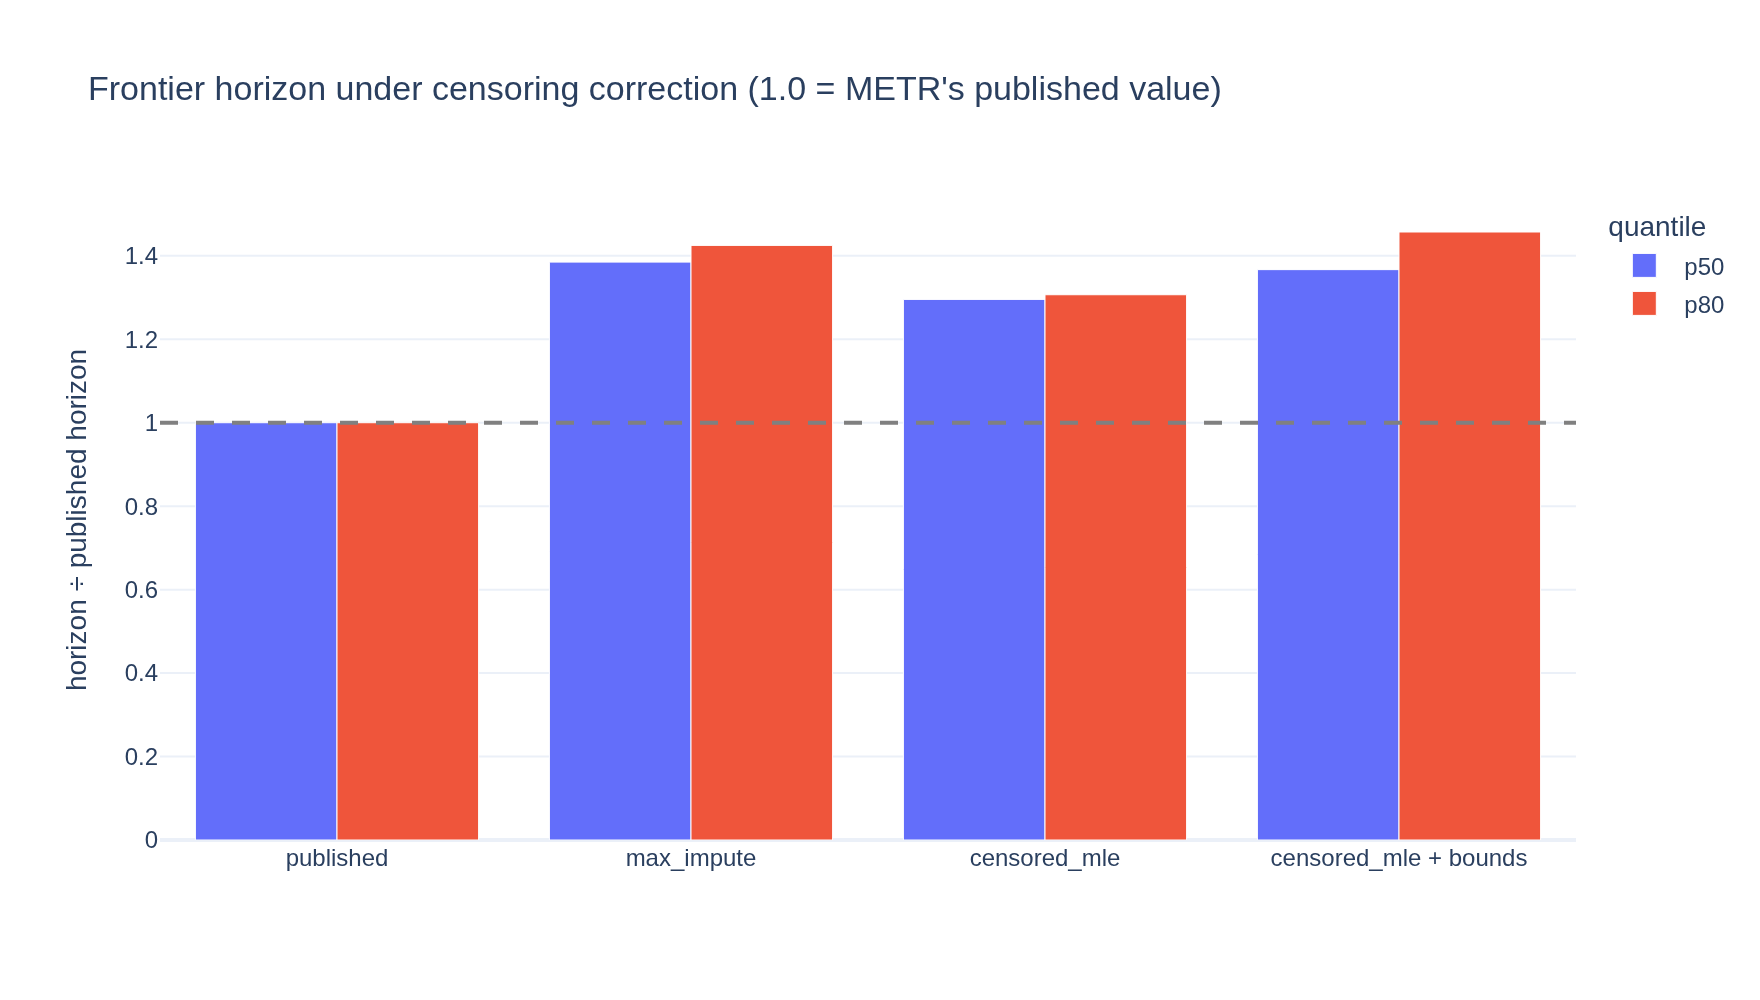
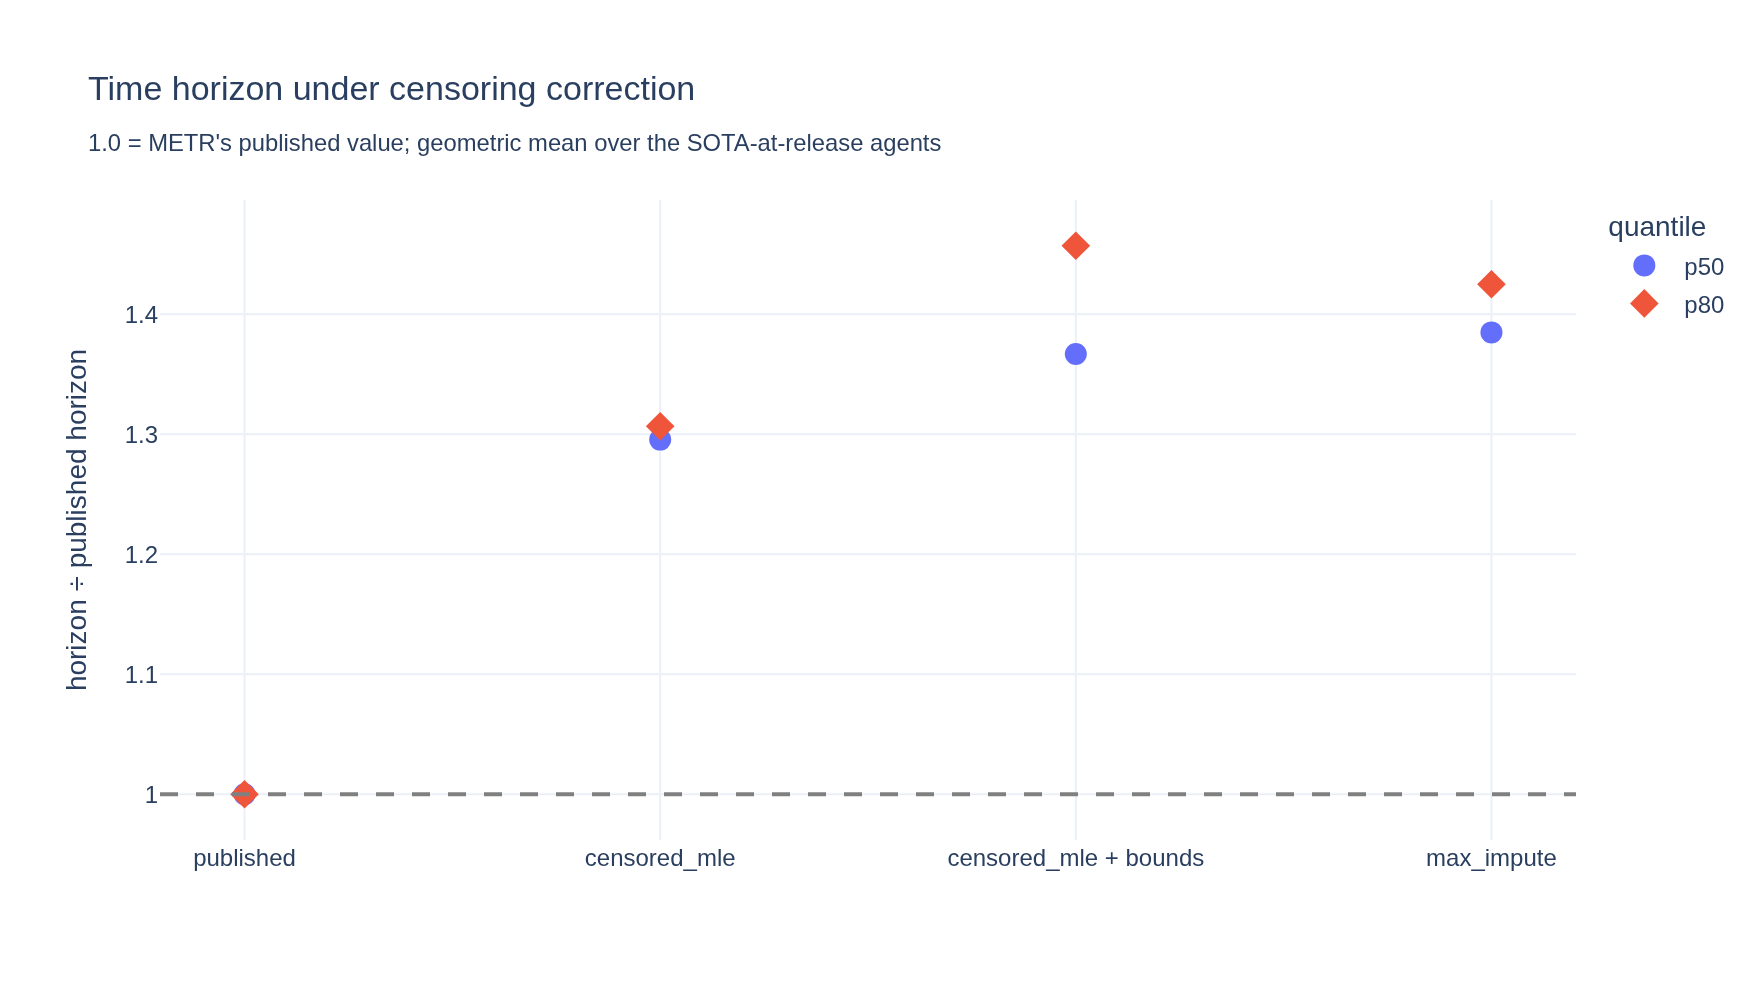
Stage 3 figures to scatter; condense the main-README summary
- The two scenario bar charts become scatter plots, matching Stage 2(c). This
  also makes the doubling-time range legible (190-211 days) instead of being
  squashed against a zero baseline.
- Left success_rate_by_length as bars: its x-axis is genuinely categorical
  length buckets, where bars are the right encoding.
- Main README results summary: split into bullets and stripped most of the
  individual numbers, keeping the direction and magnitude of each finding.
  Per-stage numbers stay in the stage READMEs.

diff --git a/reanalysis/stage-3-survival/analysis.py b/reanalysis/stage-3-survival/analysis.py
@@ -573,24 +573,34 @@ survival_by_task.to_csv(DATA_OUT / f"survival_by_task{SUFFIX}.csv")
 bound_by_all_censored_task.to_csv(DATA_OUT / f"lower_bounds_all_censored{SUFFIX}.csv")
 
 # %%
-fig = px.bar(
+SCENARIO_ORDER = ["published", "censored_mle", "censored_mle + bounds", "max_impute"]
+
+fig = px.scatter(
     scenario_summary, x="scenario", y="gmean_frontier_horizon_min_vs_published",
-    color="quantile", barmode="group",
-    title="Frontier horizon under censoring correction (1.0 = METR's published value)",
+    color="quantile", symbol="quantile",
+    category_orders={"scenario": SCENARIO_ORDER},
+    title="Time horizon under censoring correction<br>"
+          "<sub>1.0 = METR's published value; geometric mean over the "
+          "SOTA-at-release agents</sub>",
     labels={"gmean_frontier_horizon_min_vs_published": "horizon ÷ published horizon",
             "scenario": ""},
 )
+fig.update_traces(marker=dict(size=11))
 fig.add_hline(y=1.0, line_dash="dash", line_color="gray")
 fig.write_image(FIGURES / f"horizon_by_scenario{SUFFIX}.png", width=880, height=500, scale=2)
 show(fig)
 
 # %%
-fig = px.bar(
+fig = px.scatter(
     scenario_summary, x="scenario", y="doubling_days",
-    color="quantile", barmode="group",
-    title="Doubling time under censoring correction",
+    color="quantile", symbol="quantile",
+    category_orders={"scenario": SCENARIO_ORDER},
+    title="Doubling time under censoring correction<br>"
+          "<sub>dotted lines mark the published values; note the narrow vertical "
+          "range</sub>",
     labels={"doubling_days": "doubling time (days)", "scenario": ""},
 )
+fig.update_traces(marker=dict(size=11))
 for quantile_label in ["p50", "p80"]:
     fig.add_hline(
         y=float(published_by_quantile.loc[quantile_label, "doubling_days"]),

diff --git a/reanalysis/README.md b/reanalysis/README.md
@@ -19,28 +19,33 @@ that uncertainty through to time horizons and doubling times.
 | [3 — Survival analysis](stage-3-survival/) | What happens when failed human baselines are treated as censored observations instead of discarded? | ✅ done (v1.0 + v1.1) |
 | [4 — Cohort selection](stage-4-cohort-selection/) | Are long-task baseliners systematically faster, *tilting* the x-axis and hence the trend? | proposal — needs pseudonymous baseliner IDs |
 
-## Results so far, in one paragraph
+## Results so far
 
-The trend survives; the absolute numbers do not. **Nothing we tried moves the doubling
-time by more than ~6%** — random per-task noise averages out across ~170 tasks (its 95%
-interval widens by ~2 days even when *every* task is perturbed at full estimated noise),
-and even a coherent ±1σ bias applied to all tasks at once shifts it under ±10%, because
-rescaling every task slides the horizon-vs-date line without tilting it. The **absolute
-horizons are a different story**: the same coherent ±1σ bias multiplies them by ×2.4 or
-×0.45, and two specific corrections move them substantially. METR's own SIMEX
-errors-in-variables correction *lowers* the most capable agent's 50%-horizon (−19% on
-v1.0, −36% on v1.1, the latter matching their published figure) and raises every agent's
-80%-horizon by 25–40%; our never-before-applied censoring correction pushes the other way,
-*raising* the 50%-horizon by 23–45% by treating the 28% of human baseline attempts that
-failed as right-censored rather than discarding them. These two are comparable in size and
-opposite in sign, and which one wins depends on the suite (net +18% on v1.0, −21% on
-v1.1) — so the honest summary is that the headline horizon carries roughly **±20%
-unresolved uncertainty from the x-axis alone**, while the doubling time is robust. Along
-the way we found that the 16 tasks whose `human_minutes` is a researcher estimate are
-*exactly* the 16 tasks where every human baseliner failed, and that 7 of those published
-values are **provably too low** by arithmetic alone. The one error structure that could
-still move the trend — a length-dependent *tilt* from baseliner self-selection — needs one
-field METR has not released, which is what [Stage 4](stage-4-cohort-selection/) asks for.
+Short version: **the trend is robust, the absolute horizons are not.**
+
+- **The doubling time barely moves — under ~6% in every scenario we tried.** Random
+  per-task noise averages out over ~170 tasks, and even a coherent bias applied to all
+  tasks at once mostly cancels, because rescaling every task slides the horizon-vs-date
+  line without tilting it.
+- **Absolute horizons are a different story.** A coherent ±1σ error in the baseline times
+  moves them by more than a factor of two in either direction, so the headline "time
+  horizon" numbers are far more fragile than the growth rate.
+- **Two real corrections pull in opposite directions.** METR's own errors-in-variables
+  (SIMEX) correction *lowers* the most capable agent's 50%-horizon and raises everyone's
+  80%-horizon; treating failed human baselines as censored rather than discarding them
+  *raises* the 50%-horizon by a comparable amount. Which one wins depends on the task
+  suite, so the headline horizon carries roughly **±20% of unresolved uncertainty from the
+  x-axis alone** — METR's published downward correction is not the last word.
+- **Two things are simply wrong in the published data.** The tasks whose `human_minutes`
+  is a researcher estimate turn out to be *exactly* the tasks where every human baseliner
+  failed — and for several of them the recorded attempt durations already prove the
+  published value is too low, by arithmetic alone.
+- **One open risk could still move the trend:** if the people who took the long tasks were
+  systematically faster, the x-axis is *tilted* rather than shifted, and a tilt does change
+  the slope. Testing that needs one field METR has not released — see
+  [Stage 4](stage-4-cohort-selection/).
+
+Per-stage numbers and figures are in the stage READMEs linked above.
 
 ## Relation to prior work
 
